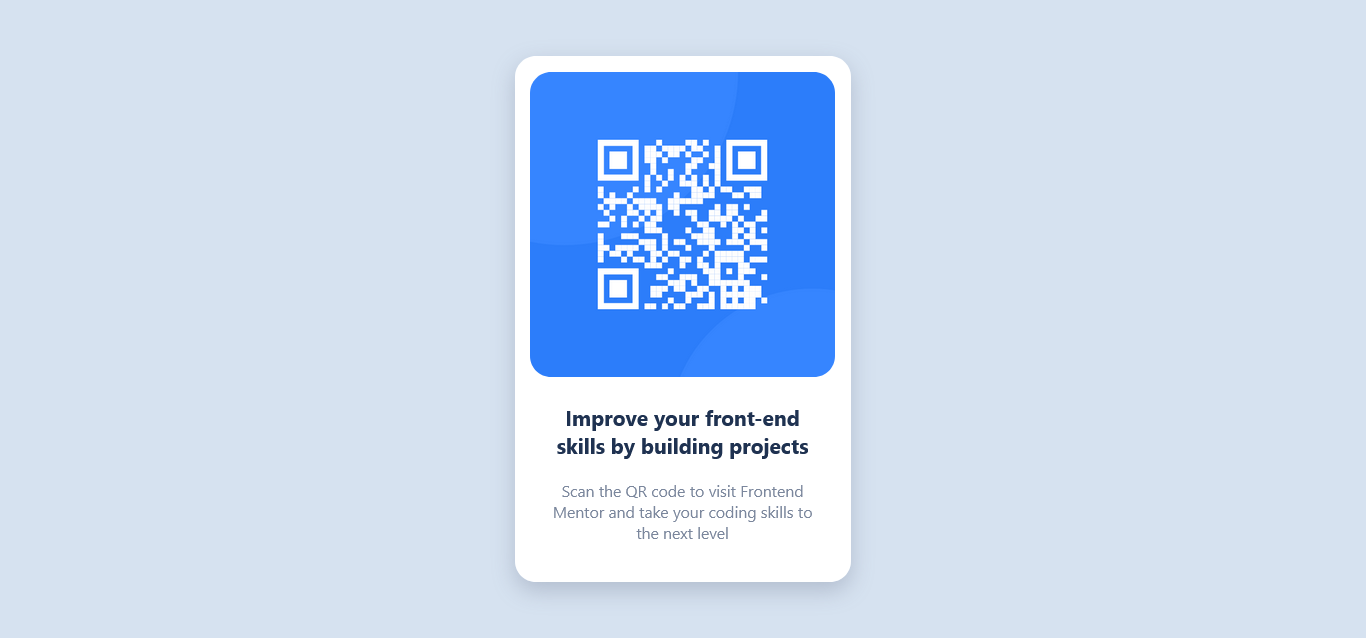
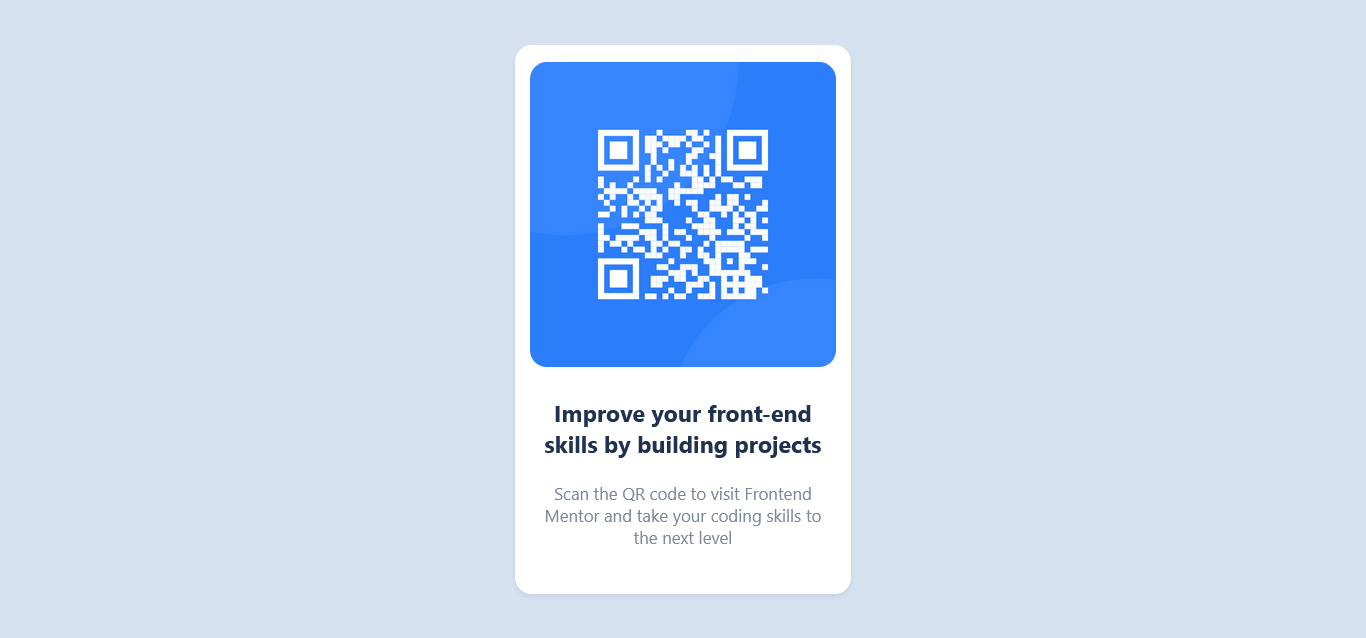
Added a <main> html tag to improve accessibility and removed the word "image" from the alt attribute in the image element.
Besides that I'm now using CSS Flexbox to align the elements and relative
units to define font sizes.

diff --git a/assets/css/style.css b/assets/css/style.css
@@ -1,59 +1,60 @@
-/* Main stylesheet of the project */
-
 * { box-sizing: border-box; }
 
 body {
-    background-color: hsl(212, 45%, 89%);
-    font-family: "Outfit", 'Segoe UI', Tahoma, Geneva, Verdana, sans-serif;
+  /* General style */
+  background-color: hsl(212, 45%, 89%);
+  font-family: "Outfit", 'Segoe UI', Tahoma, Geneva, Verdana, sans-serif;
+
+  /* Alignement properties */
+  margin: 0;
+  min-height: 100vh;
+  display: flex;
+  flex-direction: column;
+  align-items: center;
+  justify-content: center;
 }
 
-/* Center an element vertically and horizontally */
-.center {
-    /* Position and alignment declarations */
-    position: absolute;
-    left: 50%;
-    top: 50%;
-    transform: translate(-50%, -50%);
+main {
+  background-color: hsl(0, 0%, 100%);
+  width: 20rem;
+  min-height: 31.25rem; /* 500px with standard font size */
+  max-width: 90%;
+  border-radius: 16px;
+  box-shadow: 0 3px 3px 1px rgba(108, 121, 147, 0.1);
+
+  /* ALignment properties */
+  display: flex;
+  flex-flow: column nowrap;
+  align-items: center;
+  text-align: center;
 }
 
-/* Center an alement horizontally */
-.center-h {
-    position: relative;
-    left: 50%;
-    transform: translate(-50%);
-}
+  main h1, p {
+    max-width: 85%;
+  }
 
-.main-container {
-    background-color: hsl(0, 0%, 100%);
-    width: 320px;
-    height: 500px;
-    border-radius: 20px;
-    text-align: center;
-    box-shadow: 0 8px 20px rgb(125, 135, 157, 0.4);
-}
+  main h1 {
+    color: hsl(218, 44%, 22%);
+    font-size: 1.375rem;
+    font-weight: 700;
+    margin-top: 1.75rem;
+    margin-bottom: 1.375rem;
+  }
+
+  main p {
+    color: hsl(220, 15%, 55%);
+    font-size: 1rem;
+    font-weight: 400;
+    margin-top: 0;
+    margin-bottom: 2.75rem;
+  }
 
 #qr-code {
-    border-radius: 20px;
-    
-    /* Position declarations for the QR Code image */
-    position: absolute;
-    left: 50%;
-    transform: translate(-50%, 15px)
-}
-
-/* Text style */
-.main-container h1 {
-    width: 250px;
-    margin-top: 330px;
-    font-weight: 700;
-    font-size: 20px;
-    color: hsl(218, 44%, 22%);
-}
-
-.main-container p {
-    width: 250px;
-    margin-top: 20px;
-    font-weight: 400px;
-    font-size: 15px;
-    color: hsl(220, 15%, 55%);
+  margin-top: 1rem;
+  border-radius: 16px;
+  
+  /* This last two properties make the QR Code shrink in screens less than
+   375px wide, preventing it from overflowing the <main> container. */
+  max-width: 92%;
+  height: auto;
 }

diff --git a/index.html b/index.html
@@ -8,19 +8,21 @@
   
   <!-- Custom CSS stylesheets below -->
   <link rel="stylesheet" href="assets/css/style.css">
+
   <!-- Google Font Import -->
   <link rel="stylesheet" href="https://www.fonts.googleapis.com/css?family=Outfit">
 
   <title>Frontend Mentor | QR code component</title>
 </head>
 <body>
-  <div class="main-container center">
+  <!-- NOTE: Every page should be contained within semantic landmarks -->
+  <main>
       <!-- QR Code image -->
       <img src="images/image-qr-code.png" width="290" height="290" id="qr-code"
-      alt="QR Code image that leads to the Front-end Mentor website">
-      <!-- Text bellow the QR code -->
-      <h1 class="center-h">Improve your front-end skills by building projects</h1>
-      <p class="center-h">Scan the QR code to visit Frontend Mentor and take your coding skills to the next level</p>
-  </div>
+      alt="QR Code that leads to the Front-end Mentor website">
+      <!-- Text below the QR code -->
+      <h1>Improve your front-end skills by building projects</h1>
+      <p>Scan the QR code to visit Frontend Mentor and take your coding skills to the next level</p>
+  </main>
 </body>
 </html>

diff --git a/README.md b/README.md
@@ -13,6 +13,7 @@ This is a solution to the [QR code component challenge on Frontend Mentor](https
   - [Continued development](#continued-development)
   - [Useful resources](#useful-resources)
 - [Author](#author)
+- [Acknowledgements](#acknowledgements)
 
 ## Screenshot
 
@@ -59,7 +60,29 @@ Here's how I did it:
  centering it. */
 ```
 
+**Update: After a very insightful piece of feedback by [@MelvingAguilar](https://www.frontendmentor.io/profile/MelvinAguilar) I changed a lot of things in the source code an learned a ton of things.**
+
+The main things I learned about were:
+- **CSS Flexbox**.
+- Using **relative units** to make your page more accessible.
+
+Here's a better way to centralize the main container of the page using **CSS flexbox**:
+
+```css
+body {
+  /* Make the page height fill at least of full viewport */
+  min-height: 100vh;
+  /* Turn the body element into a flex container */
+  display: flex;
+  /* Align horizontally and vertically */
+  justify-content: center;
+  align-items: center;
+}
+```
+
 ### Continued development
+
+**Before feedback**
 
 Even though this method of centering things that I described above worked pretty well, I'm aware that there are something called **Flexbox** that might be useful to learn in the future as more effective approach.
 
@@ -68,9 +91,14 @@ I'm looking forward to explore more ways of specifying the layout of a page.
 ### Useful resources
 
 - [How to Center Divs](https://blog.hubspot.com/website/center-div-css) - This helped me understand how I could center the QR Code container in the center of the screen, independent of the width of the viewport.
-
+- [Pixels vs Relative Unitis and Acessibility](https://www.joshwcomeau.com/css/surprising-truth-about-pixels-and-accessibility/#widths-and-heights-9) - An **excellent** article about how can you build a mental model to help you decide when to use relative units instead of absolute units.
+- [A Complete Guide to Flexbox](https://www.joshwcomeau.com/css/surprising-truth-about-pixels-and-accessibility/#widths-and-heights-9) - I didn't know anything about flexbox, this guide made get a pretty good grasp of the framwork in just a few hours.
 
 ## Author
 
 - Twitter - [@oPedroCeleste](https://www.twitter.com/oPedroCeleste)
 - Frontend Mentor - [@Pedro-Celeste](https://www.frontendmentor.io/profile/Pedro-Celeste)
+
+## Acknowledgements 
+
+A huge thanks again to [@MelvinAguilar](https://www.frontendmentor.io/profile/MelvinAguilar) for the insightful piecie of feedback.
